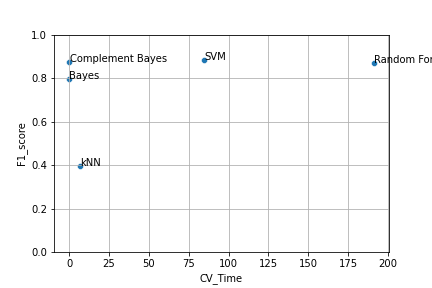
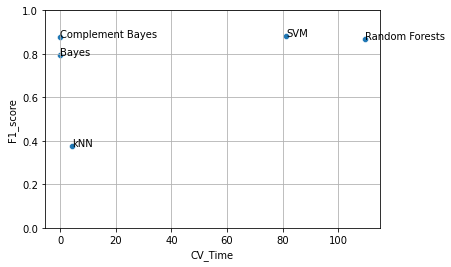
fixed figure plots

Changed region(s): [[0.0, 0.03, 1.0, 1.0]]

diff --git a/ProjectMachineLearning/main_script.py b/ProjectMachineLearning/main_script.py
@@ -188,7 +188,7 @@ def find_model(train_file = 'train.csv'):
     models_scatter = sns.scatterplot(results, x = results['CV_Time'], y = results['F1_score'])
     label_point(results['CV_Time'], results['F1_score'], results['Model'], plt.gca())
     plt.grid()
-    models_scatter.get_figure().savefig('models_scatter.png')
+    models_scatter.get_figure().savefig('models_scatter.png', bbox_inches = 'tight')
     #Using the best model - Complement Bayes:
     model = ComplementNB(**optimal_params_complement_bayes.best_params_)
     t0 = time()
@@ -202,8 +202,7 @@ def find_model(train_file = 'train.csv'):
     disp = ConfusionMatrixDisplay(confusion, display_labels=emotions)
     disp.plot()
     plt.xticks(rotation=45)
-    plt.show()
-    plt.savefig('confusion.png')
+    plt.savefig('confusion_matrix.png', bbox_inches = 'tight')
     return results.iloc[0]
     #out['pred'].to_csv('predictions.txt', index=False, header=False)
 def train_test(train_file = 'train.csv', test_file = 'test.csv'):
